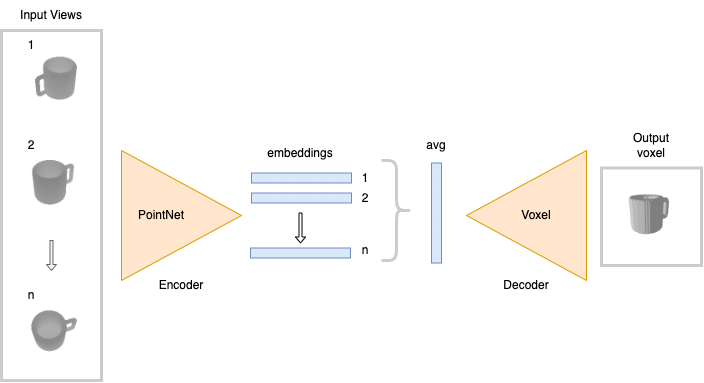
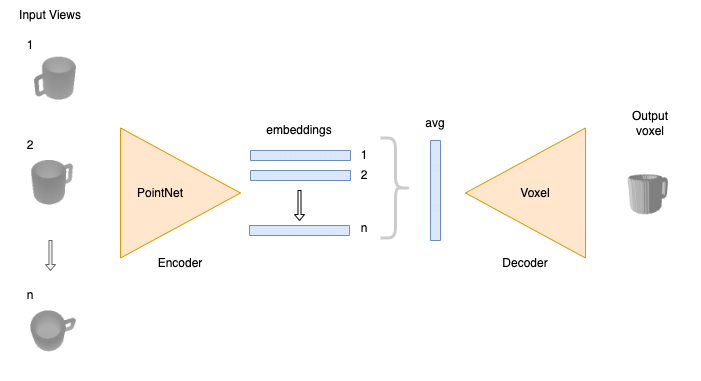
reconstruction images

diff --git a/_projects/object_reconstruction.md b/_projects/object_reconstruction.md
@@ -12,14 +12,18 @@ priority: 300
 
 <div style="margin-top: 2em"></div>
   <div class="row">
+  <div class = "column">
     <p class="project-links">
         <svg class="svg-icon grey"><use xlink:href="{{ '/assets/minima-social-icons.svg#pdf' | relative_url }}"></use></svg>
         Code: <a href="{{ site.baseurl }}/assets/reports/{{ page.github }}" target="_blank">{{ page.github }}</a>
     </p> 
+    </div>
+    <div class = "column">
     <p class="project-links">
         <svg class="svg-icon grey"><use xlink:href="{{ '/assets/minima-social-icons.svg#pdf' | relative_url }}"></use></svg>
         Report: <a href="{{ site.baseurl }}/assets/reports/{{ page.report }}" target="_blank">{{ page.report }}</a>
     </p> 
+    </div>
     <p>
     Work in progress... <br> <br>
     This page showcases my work on 3D Object Reconstruction from images. The main goal is to learn category level object class and shape information from a large dataset of shape models. I trained a 
@@ -34,7 +38,7 @@ priority: 300
     <h2>Architecture</h2>
     <p> The multi-view auto-encoder consists of a <a href="https://arxiv.org/abs/1612.00593">PointNet</a> like encoder network that fuses embedding vectors from multiple views. The intuition is that regardless of the viewing angle or pose of the input image, each image of the same object should project to the same latent representation. The decoder network is composed of series of linear and 2D convolutional layers that expand the shape embedding vector to a voxel grid of size 128x128x128. I use the cross-entropy loss for shape reconstruction loss and I use a contrastive loss on the embedding vectors to promote clustering in the latent space. </p>
     <div class = 'project-image'>
-        <img src="../assets/images/reconstruction/architecture_diagram_transparent.png" class="">
+        <img src="../assets/images/reconstruction/architecture_diagram.png" class="">
     </div>  
     <h2>Results</h2>
     <p>I trained my network for 4 days with 6 RTX 2080 GPU's on the <a href = "https://scicomp.ethz.ch/wiki/Euler">Euler</a> compute cluster. The dataset consisted of 8 object categories with 50 object instances each and 16 input color/depth views.
@@ -69,7 +73,7 @@ priority: 300
             <img src="../assets/images/reconstruction/bottle_scan_1_view_gif.gif" class="">
             <img src="../assets/images/reconstruction/can_scan_1_view_gif.gif" class="">
             <img src="../assets/images/reconstruction/cellphone_scan_1_view_gif.gif" class="">
-            <img src="../assets/images/reconstruction/display_scan_1_view_gif.gif" class="">
+            <img src="../assets/images/reconstruction/display_scan_1_new_gif.gif" class="">
             <img src="../assets/images/reconstruction/laptop_scan_1_view_gif.gif" class="">
             <img src="../assets/images/reconstruction/camera_scan_1_view_gif.gif" class="">
         </div>
@@ -80,7 +84,7 @@ priority: 300
             <img src="../assets/images/reconstruction/bottle_scan_5_view_gif.gif" class="">
             <img src="../assets/images/reconstruction/can_scan_5_view_gif.gif" class="">
             <img src="../assets/images/reconstruction/cellphone_scan_5_view_gif.gif" class="">
-            <img src="../assets/images/reconstruction/display_scan_5_view_gif.gif" class="">
+            <img src="../assets/images/reconstruction/display_scan_5_new_gif.gif" class="">
             <img src="../assets/images/reconstruction/laptop_scan_5_view_gif.gif" class="">
             <img src="../assets/images/reconstruction/camera_scan_5_view_gif.gif" class="">
         </div>
@@ -89,7 +93,7 @@ priority: 300
             <img src="../assets/images/reconstruction/bottle_gif.gif" class="">
             <img src="../assets/images/reconstruction/can_gif.gif" class="">
             <img src="../assets/images/reconstruction/cellphone_gif.gif" class="">
-            <img src="../assets/images/reconstruction/display_gif.gif" class="">
+            <img src="../assets/images/reconstruction/display_new_gif.gif" class="">
             <img src="../assets/images/reconstruction/laptop_gif.gif" class="">
             <img src="../assets/images/reconstruction/camera_gif.gif" class="">
         </div>
